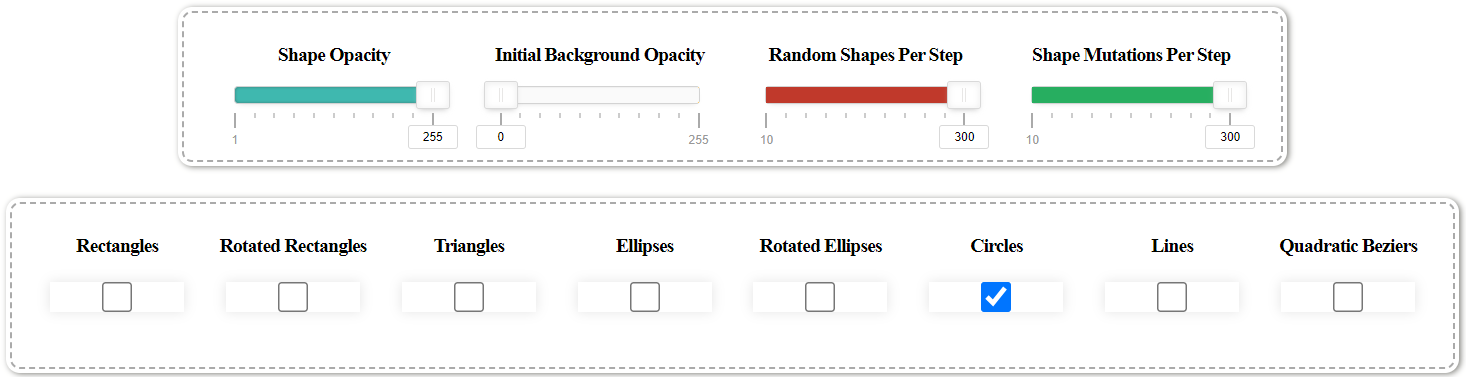
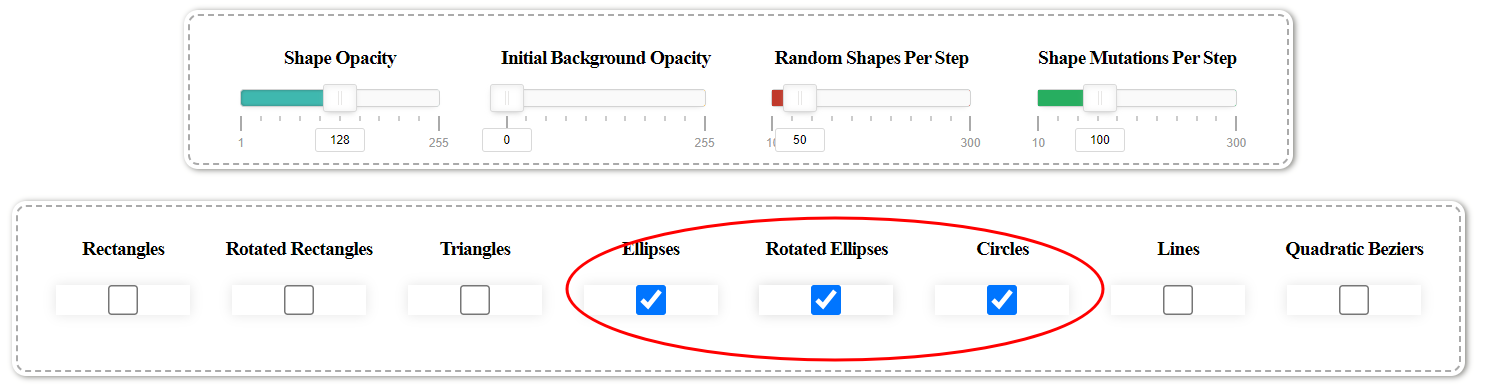
Updated Tutorial

diff --git a/README.md b/README.md
@@ -5,7 +5,7 @@
 ### Using [Geometrize Web Demo](https://www.samcodes.co.uk/project/geometrize-haxe-web/)
 
 1. First go to [Geometrize Demo Website](https://www.samcodes.co.uk/project/geometrize-haxe-web/)
-2. Set those settings. Don't forget to select **only** circles!
+2. You can set your desired settings but shapes are restricted only for this.
 
 ![](https://github.com/ShineUA/geometrize2gd-mod-geode/blob/main/screenshots/1.png)
 
@@ -32,13 +32,9 @@
 
 ![](https://github.com/ShineUA/geometrize2gd-mod-geode/blob/main/screenshots/12.png)
 
-4. **IMPORTANT!!!** Select **ONLY** circles.
+4. **IMPORTANT!!!** Shapes are restricted to circles, ellipses and rotated ellipses. Other settings you can edit as you want.
 
 ![](https://github.com/ShineUA/geometrize2gd-mod-geode/blob/main/screenshots/13.png)
-
-5. Also set shape opacity to 255.
-
-![](https://github.com/ShineUA/geometrize2gd-mod-geode/blob/main/screenshots/14.png)
 
 6. Click "Start" button.
 
